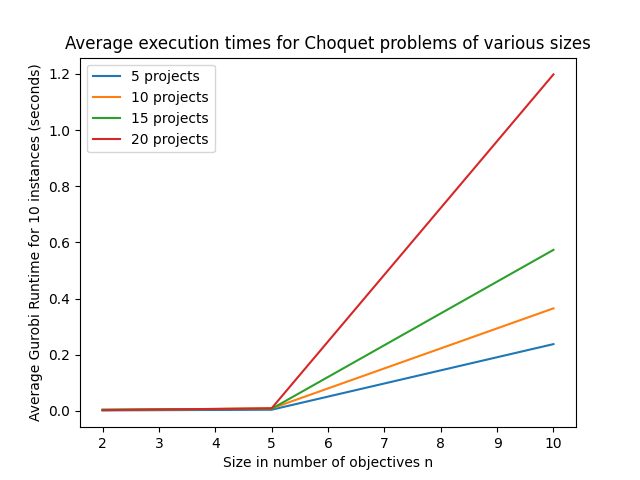
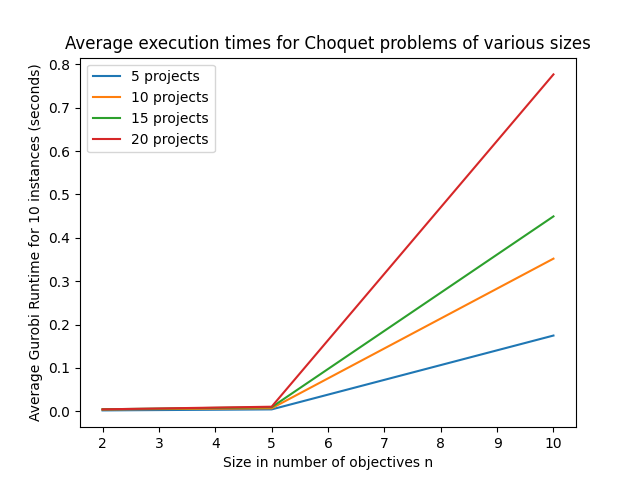
update questions 2.2 and 2.3

diff --git a/Choquet.py b/Choquet.py
@@ -54,7 +54,7 @@ def choquet_lp(n, p, costs, utilities, mobius_masses, combinations=None):
         # The value y_A of a subset of objectives A is the sum of the utilities of the selected projects for those objectives
         for subset_index, subset_obj in enumerate(combinations):
             for i in subset_obj:
-                m.addConstr(quicksum(utilities[i-1][j] * z[j] for j in range(p)) >= y[subset_index], name="y_"+str(subset_index)+"_"+str(i))
+                m.addConstr(quicksum(utilities[i][j] * z[j] for j in range(p)) >= y[subset_index], name="y_"+str(subset_index)+"_"+str(i))
 
         m.write("choquet.lp")
 

diff --git a/main.py b/main.py
@@ -326,7 +326,7 @@ if __name__ == "__main__":
     # question_1_2(one_to_one=False)
     # question_1_3()
 
-    # question_2_2(10)
+    question_2_2(10)
     # question_2_3()
-    plot_question_2_3()
+    # plot_question_2_3()
 
